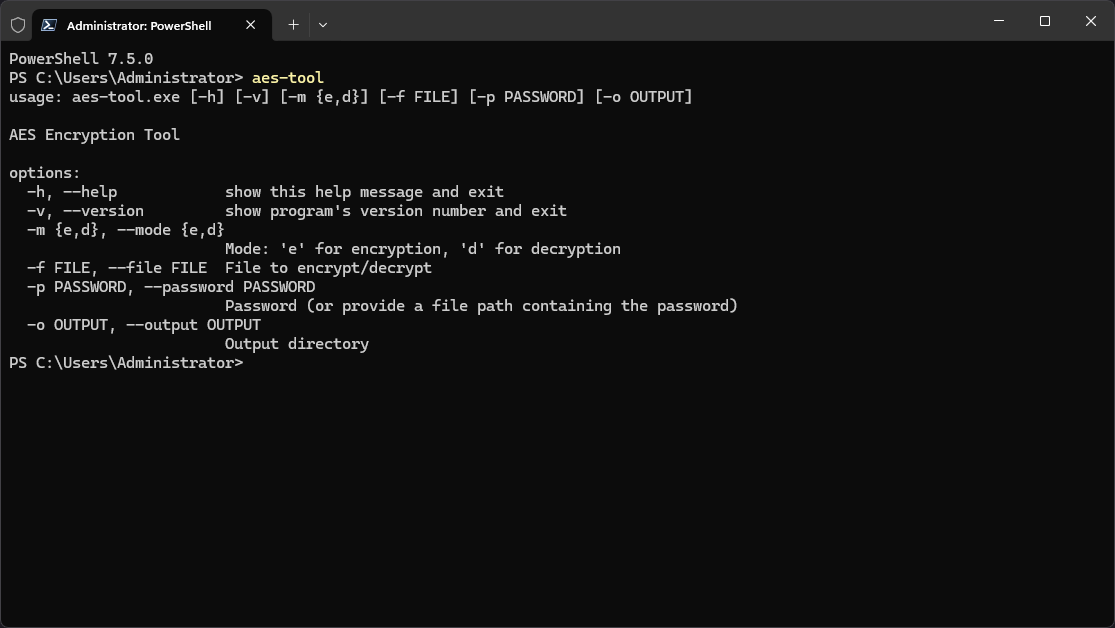
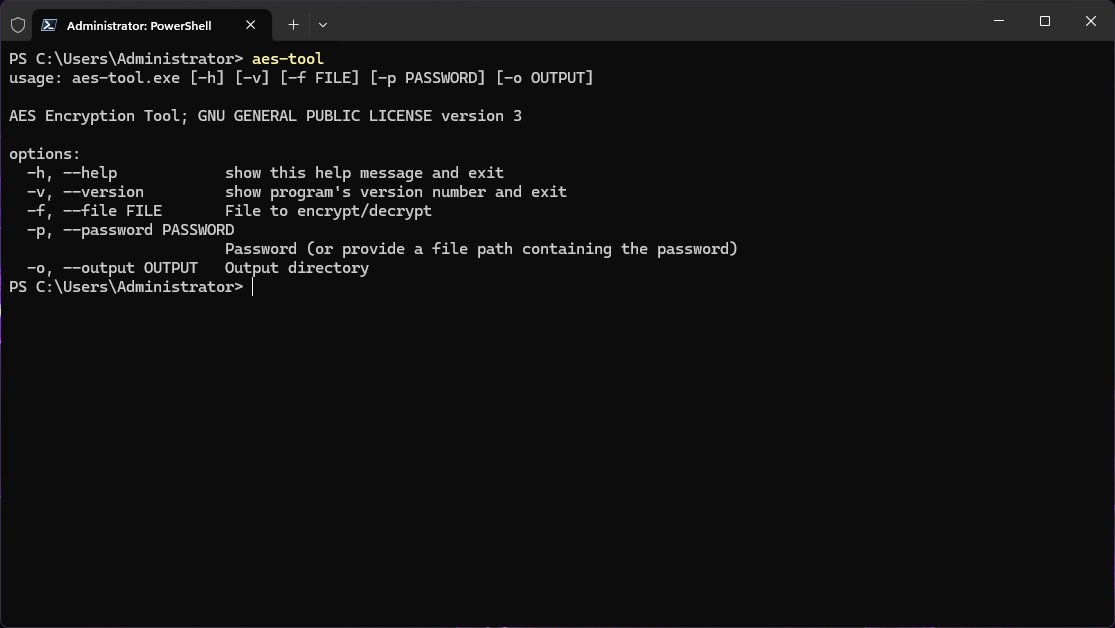
[RELEASE]: new version 1.2.0 on windows

Changed region(s): [[0.0, 0.0605, 0.6709, 0.6051], [0.7623, 0.9984, 0.8538, 1.0], [0.3964, 0.9984, 0.4879, 1.0]]

diff --git a/gui/src/window.py b/gui/src/window.py
@@ -15,6 +15,15 @@
 # along with this program. If not, see <https://www.gnu.org/licenses/>.
 
 from functions import *
+from threading import Thread
+
+
+class EnterButton(ttk.Button):
+    def __init__(self, master=None, **kwargs):
+        super().__init__(master, **kwargs)
+        # Bind Enter key to invoke the button's command
+        self.bind('<Return>', lambda event: self.invoke())
+
 
 
 def resource_path(relative_path):
@@ -79,8 +88,19 @@ def show_log_window(file_to_open, password):
             pass
 
     log_window = tk.Tk()
+    apply_system_theme()
+    # Set a fixed window size
+    window_width = 600
+    window_height = 350
+    log_window.geometry(f"{window_width}x{window_height}")
     log_window.title("Logs")
-    log_window.geometry("600x300")
+        # Calculate position to center the window
+    screen_width = log_window.winfo_screenwidth()
+    screen_height = log_window.winfo_screenheight()
+    x = (screen_width // 2) - (window_width // 2)
+    y = (screen_height // 2) - (window_height // 2)
+    # Apply the calculated position
+    log_window.geometry(f"+{x}+{y}")
     log_window.iconbitmap(icon_path)
     log_window.resizable(False, False)
 
@@ -92,26 +112,19 @@ def show_log_window(file_to_open, password):
 
     if not file_to_open.endswith('.aes'):
         # Encrypt and print logs
-        encrypt_file(file_to_open, password)
+        encrypt = Thread(target=encrypt_file, args=(file_to_open, password))
+        encrypt.start()
     else:
-        decrypt_file(file_to_open, password)
-
+        # Decrypt and print logs
+        decrypt = Thread(target=decrypt_file, args=(file_to_open, password))
+        decrypt.start()
     # Disable editing (user can't type in the Text box)
     log_display.configure(state='disabled')
 
-    # Prevent Tab key from inserting tab characters in the Text widget
-    def focus_next(event):
-        event.widget.tk_focusNext().focus()
-        return "break"
+    #log_display.bind("<Tab>", focus_next)
 
-    log_display.bind("<Tab>", focus_next)
-
-    ok_btn = tk.Button(log_window, text="OK", command=lambda: close_window(log_window))
+    ok_btn = EnterButton(log_window, text="OK", command=lambda: close_window(log_window))
     ok_btn.pack(padx=10, pady=10)
-
-    ok_btn.focus_set()  # Focus the OK button initially
-
-    log_window.bind('<Return>', lambda event: ok_btn.invoke())  # Trigger OK with Enter
 
     log_window.mainloop()
 
@@ -119,46 +132,75 @@ def encrypt_window(file):
     global password_entry, confirm_entry, toggle_btn, file_to_open, submit_btn, root
     file_to_open = file
     root = tk.Tk()
-    root.geometry("500x150")
+    apply_system_theme()
+    # Set a fixed window size
+    window_width = 500
+    window_height = 150
+    root.geometry(f"{window_width}x{window_height}")
     root.iconbitmap(icon_path)
     root.resizable(False, False)
     root.title("Encrypt File")
+    # Calculate position to center the window
+    screen_width = root.winfo_screenwidth()
+    screen_height = root.winfo_screenheight()
+    x = (screen_width // 2) - (window_width // 2)
+    y = (screen_height // 2) - (window_height // 2)
+    # Apply the calculated position
+    root.geometry(f"+{x}+{y}")
 
-    tk.Label(root, text="Password:").grid(row=0, column=0, padx=10, pady=5, sticky="nesw")
-    password_entry = tk.Entry(root, show="*", width=30)
+    ttk.Label(root, text="Password:").grid(row=0, column=0, padx=10, pady=5, sticky="nesw")
+    password_entry = ttk.Entry(root, show="*", width=30)
     password_entry.grid(row=0, column=1, padx=10, pady=5)
 
-    tk.Label(root, text="Confirm Password:").grid(row=1, column=0, padx=10, pady=5, sticky="nesw")
-    confirm_entry = tk.Entry(root, show="*", width=30)
+    ttk.Label(root, text="Confirm Password:").grid(row=1, column=0, padx=10, pady=5, sticky="nesw")
+    confirm_entry = ttk.Entry(root, show="*", width=30)
     confirm_entry.grid(row=1, column=1, padx=10, pady=5)
 
-    toggle_btn = tk.Button(root, text="Show", command=lambda: toggle_passwords("root"))
-    toggle_btn.grid(row=1, column=3, padx=10, pady=5)
+    toggle_btn = EnterButton(root, text="Show", command=lambda: toggle_passwords("root"))
+    toggle_btn.grid(row=0, column=2, padx=10, pady=5)
 
     confirm_entry.bind("<KeyRelease>", check_password_match)
     password_entry.bind("<KeyRelease>", check_password_match)
 
-    submit_btn = tk.Button(root, text="Encrypt", state="disabled")
+    submit_btn = EnterButton(root, text="Encrypt", state="disabled")
     submit_btn.grid(row=3, column=1, pady=10)
+
+    cancel_btn = EnterButton(root, text="Cancel", state="normal", command=lambda: close_window(root))
+    cancel_btn.grid(row=1, column=2, pady=10)
     
     root.mainloop()
 
 def decrypt_window(file_to_open):
     global password_entry, toggle_btn, s_btn, root1
     root1 = tk.Tk()
-    root1.geometry("400x150")
+    apply_system_theme()
+    # Set a fixed window size
+    window_width = 400
+    window_height = 150
+    root1.geometry(f"{window_width}x{window_height}")
+    #root1.geometry("400x150")
     root1.iconbitmap(icon_path)
     root1.resizable(False, False)
     root1.title("Decrypt File")
+    # Calculate position to center the window
+    screen_width = root1.winfo_screenwidth()
+    screen_height = root1.winfo_screenheight()
+    x = (screen_width // 2) - (window_width // 2)
+    y = (screen_height // 2) - (window_height // 2)
+    # Apply the calculated position
+    root1.geometry(f"+{x}+{y}")
 
-    tk.Label(root1, text="Password:").grid(row=0, column=0, padx=10, pady=5, sticky="nesw")
-    password_entry = tk.Entry(root1, show="*", width=30)
+    ttk.Label(root1, text="Password:").grid(row=0, column=0, padx=10, pady=5, sticky="nesw")
+    password_entry = ttk.Entry(root1, show="*", width=30)
     password_entry.grid(row=0, column=1, padx=10, pady=5)
 
-    toggle_btn = tk.Button(root1, text="Show", command=lambda: toggle_passwords("root1"))
+    toggle_btn = EnterButton(root1, text="Show", command=lambda: toggle_passwords("root1"))
     toggle_btn.grid(row=0, column=2, padx=10, pady=5)
 
-    s_btn = tk.Button(root1, text="Decrypt", state="normal", command=lambda: submit(root1, file_to_open, password_entry.get()))
-    s_btn.grid(row=1, column=1, pady=10)
+    s_btn = EnterButton(root1, text="Decrypt", state="normal", command=lambda: submit(root1, file_to_open, password_entry.get()))
+    s_btn.grid(row=1, column=1, pady=10, sticky='w')
+
+    cancel_btn = EnterButton(root1, text="Cancel", state="normal", command=lambda: close_window(root1))
+    cancel_btn.grid(row=1, column=1, pady=10, sticky='e')
 
     root1.mainloop()

diff --git a/gui/src/functions.py b/gui/src/functions.py
@@ -21,7 +21,11 @@ from Crypto.Protocol.KDF import PBKDF2
 from Crypto.Random import get_random_bytes
 import psutil
 import time
+from tqdm.tk import tqdm
 import tkinter as tk
+from tkinter import ttk
+from threading import Thread
+import platform
 
 #Constant
 SALT_SIZE = 16
@@ -31,11 +35,28 @@ TAG_SIZE = 16
 ITERATIONS = 100_000
 
 
+def apply_system_theme():
+    system = platform.system()
+    style = ttk.Style()
+    
+    if system == "Windows":
+        try:
+            style.theme_use('vista')
+        except:
+            style.theme_use('winnative')
+    elif system == "Darwin":  # macOS
+        try:
+            style.theme_use('aqua')
+        except:
+            style.theme_use('clam')
+    else:  # Linux and others
+        style.theme_use('clam')
+
 def get_dynamic_buffer_size(file_path):
     """Determine the buffer size based on file size dynamically."""
     file_size = os.path.getsize(file_path)
     total_ram = psutil.virtual_memory().total
-    print(f"File path: {file_path}\nFile size: {file_size} bytes\nTotal system ram: {total_ram} bytes")
+    print(f"File path: {file_path}\nFile size: {file_size} bytes\nTotal system ram: {total_ram} bytes\nLarge files take time. Please wait...")
     cal = 1024 * 1024 * 1024
     if total_ram <= 2 * cal: # 2 GB RAM
         return 64 * 1024
@@ -87,7 +108,10 @@ def encrypt_file(file_path, password):
         print(f"Encryption failed: {e}")
 
 def decrypt_file(file_path, password):
-    global password_entry, toggle_btn, confirm_entry, submit_btn, root
+    #global password_entry, toggle_btn, confirm_entry, submit_btn, root
+    file_size = os.path.getsize(file_path)
+    total_ram = psutil.virtual_memory().total
+    print(f"File path: {file_path}\nFile size: {file_size} bytes\nTotal system ram: {total_ram} bytes\nLarge files take time. Please wait...")
     """Decrypt a file using AES-GCM (Authenticated Decryption)."""
     start = time.perf_counter() # starting time counter
     try:

diff --git a/src/main.py b/src/main.py
@@ -145,7 +145,7 @@ def decrypt_file(file_path, password, output_dir):
 
 def main():
     #arguments
-    parser = argparse.ArgumentParser(description="AES Encryption Tool")
+    parser = argparse.ArgumentParser(description="AES Encryption Tool; GNU GENERAL PUBLIC LICENSE version 3")
     parser.add_argument('-v', '--version', action='version', version=f"AES Tool {VERSION}")
     #parser.add_argument('-m', '--mode', type=str, choices=['e', 'd'], help="Mode: 'e' for encryption, 'd' for decryption")
     parser.add_argument('-f', '--file', type=str, help="File to encrypt/decrypt")

diff --git a/gui/src/main.py b/gui/src/main.py
@@ -40,3 +40,4 @@ if __name__ == "__main__":
             decrypt_window(file_to_open)
 
 #pyinstaller --onefile --windowed --add-data "assets/aes_tool_icon.ico;assets" --icon=assets/aes_tool_icon.ico --hidden-import=psutil --hidden-import=Crypto.Cipher._raw_aes --hidden-import=Crypto.Cipher.AES --name "aes-gui" main.py
+

diff --git a/README.md b/README.md
@@ -82,7 +82,7 @@ sudo chmod +x install.sh &&\
     <tr>
       <td>aes-tool (GUI & terminal tool)</td>
       <td>1.2.0</td>
-      <td><a href="">Uploaded soon</a></td>
+      <td><a href="https://drive.google.com/uc?id=14fx--3sq0EpGNAZPaU7MD_WbHMEuLNuU&export=download">aes-tool-winv1.2.0</a></td>
     </tr>
     <tr>
       <td rowspan='2'>Linux (tested on debian based)</td>
